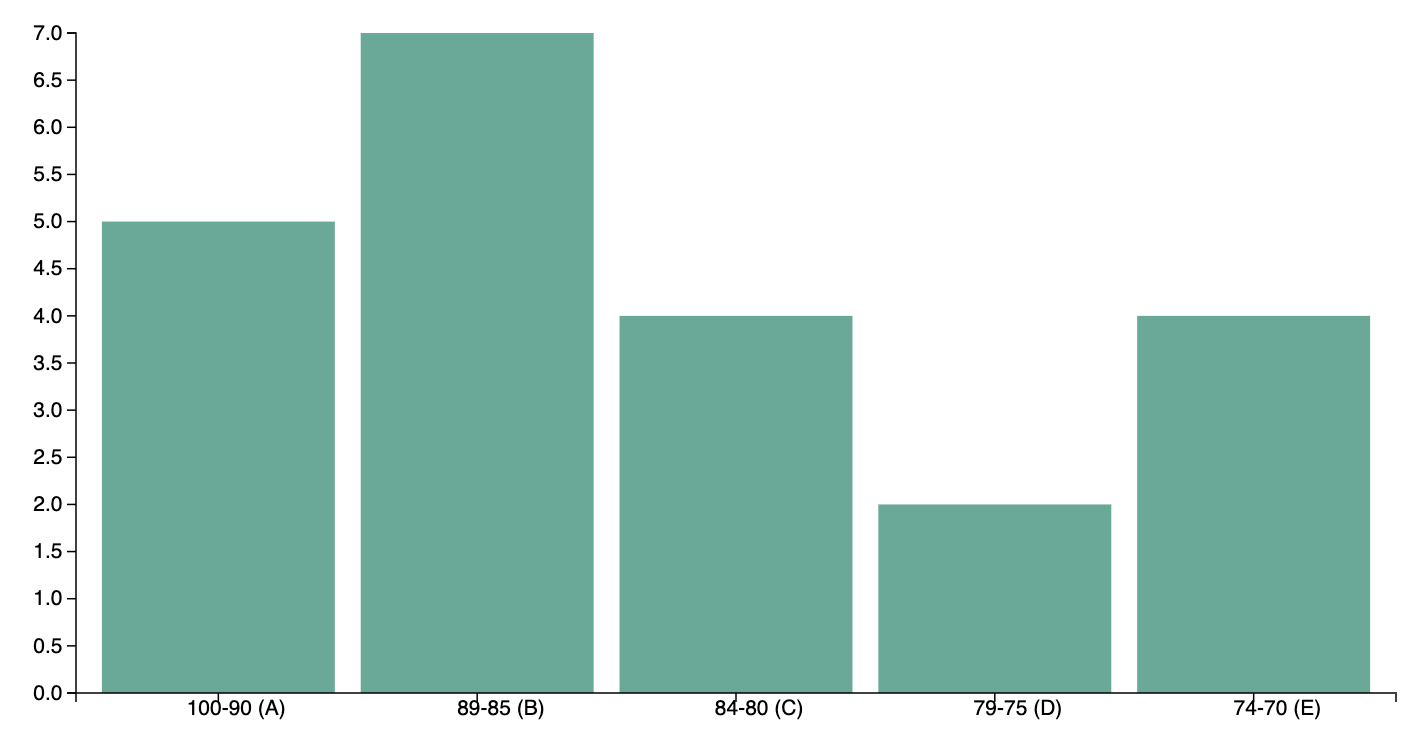
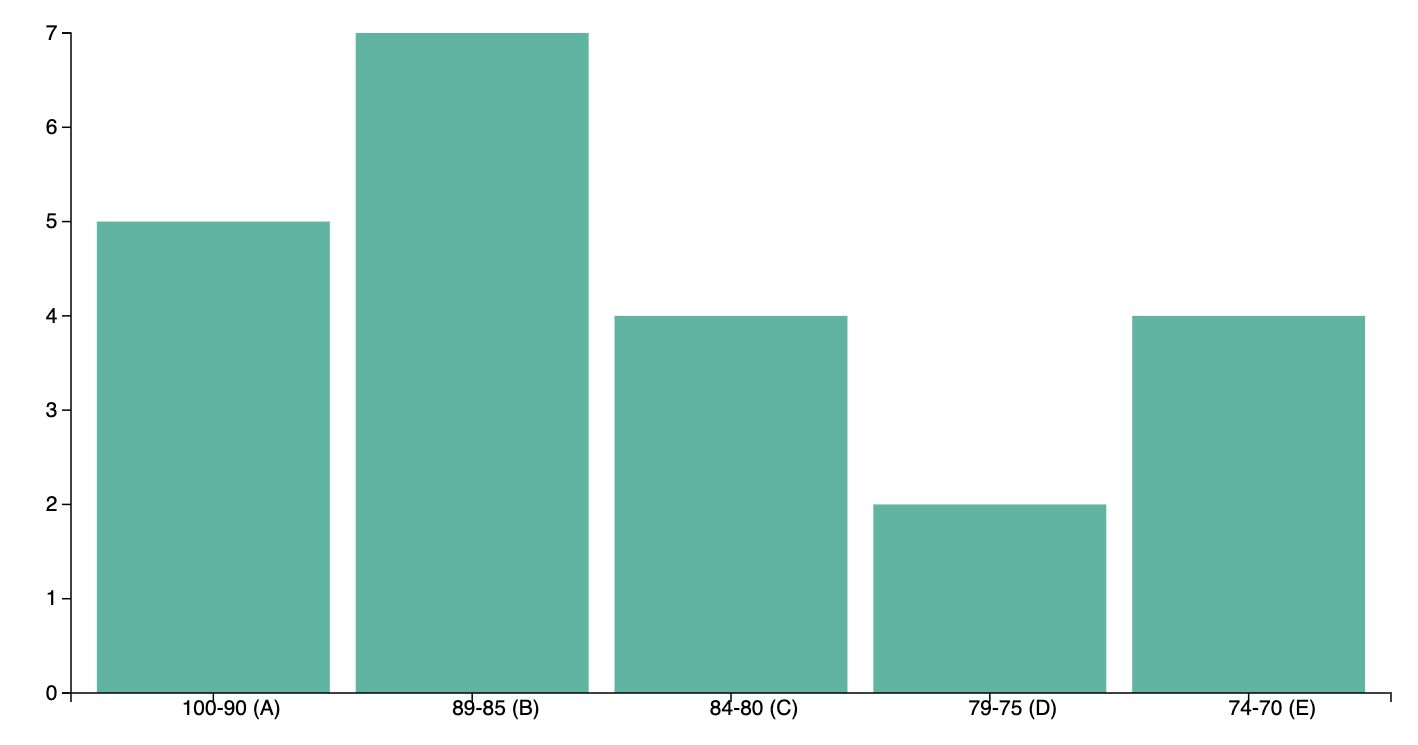
changed minor things for charts

Changed region(s): [[0.0, 0.0309, 0.9929, 0.957], [0.6206, 0.6483, 0.7757, 0.6792]]

diff --git a/dist/bundle.js b/dist/bundle.js
@@ -16,7 +16,7 @@
   \*************************/
 /***/ (function(__unused_webpack_module, exports, __webpack_require__) {
 
-eval("\nvar __createBinding = (this && this.__createBinding) || (Object.create ? (function(o, m, k, k2) {\n    if (k2 === undefined) k2 = k;\n    var desc = Object.getOwnPropertyDescriptor(m, k);\n    if (!desc || (\"get\" in desc ? !m.__esModule : desc.writable || desc.configurable)) {\n      desc = { enumerable: true, get: function() { return m[k]; } };\n    }\n    Object.defineProperty(o, k2, desc);\n}) : (function(o, m, k, k2) {\n    if (k2 === undefined) k2 = k;\n    o[k2] = m[k];\n}));\nvar __setModuleDefault = (this && this.__setModuleDefault) || (Object.create ? (function(o, v) {\n    Object.defineProperty(o, \"default\", { enumerable: true, value: v });\n}) : function(o, v) {\n    o[\"default\"] = v;\n});\nvar __importStar = (this && this.__importStar) || function (mod) {\n    if (mod && mod.__esModule) return mod;\n    var result = {};\n    if (mod != null) for (var k in mod) if (k !== \"default\" && Object.prototype.hasOwnProperty.call(mod, k)) __createBinding(result, mod, k);\n    __setModuleDefault(result, mod);\n    return result;\n};\nvar __importDefault = (this && this.__importDefault) || function (mod) {\n    return (mod && mod.__esModule) ? mod : { \"default\": mod };\n};\nObject.defineProperty(exports, \"__esModule\", ({ value: true }));\nconst d3 = __importStar(__webpack_require__(/*! d3 */ \"./node_modules/d3/src/index.js\"));\n// Import data\nconst phase2_json_1 = __importDefault(__webpack_require__(/*! ./phase2.json */ \"./heatmap/phase2.json\"));\nconst data = phase2_json_1.default.flatMap((d) => d.columns);\n// Set dimensions and margins\nconst margin = { top: 50, right: 50, bottom: 50, left: 100 };\nconst width = 1160 - margin.left - margin.right;\nconst height = 700 - margin.top - margin.bottom;\n// Create SVG canvas\nconst svg = d3.select('body')\n    .append('svg')\n    .attr('width', width + margin.left + margin.right)\n    .attr('height', height + margin.top + margin.bottom)\n    .append('g')\n    .attr('transform', `translate(${margin.left},${margin.top})`);\n// Define data domains\nconst rows = Array.from(new Set(data.map(d => d.grid))).sort();\nconst columns = Array.from(new Set(data.map(d => d.column.toString())));\n// Create scales\nconst xScale = d3.scaleBand()\n    .domain(columns)\n    .range([0, width])\n    .padding(0);\nconst yScale = d3.scaleBand()\n    .domain(rows)\n    .range([0, height])\n    .padding(0);\n// Create custom color scale\nconst colorScale = d3.scaleSequential()\n    .domain([-24, 60])\n    .interpolator(d3.interpolateRgbBasis(['#33ccff', 'white', 'red']));\n// Draw heatmap\nsvg.selectAll()\n    .data(data)\n    .enter()\n    .append('rect')\n    .attr('x', d => xScale(d.column.toString()))\n    .attr('y', d => yScale(d.grid))\n    .attr('width', xScale.bandwidth())\n    .attr('height', yScale.bandwidth())\n    .style('fill', d => colorScale(d.zoneTemperature))\n    .style('stroke', 'black');\n// Add X Axis\nconst xAxis = d3.axisTop(xScale).tickSize(0).tickPadding(6);\nsvg.append('g')\n    .attr('class', 'x axis')\n    .call(xAxis)\n    .selectAll('text')\n    .style('text-anchor', 'middle');\n// Add Y Axis\nconst yAxis = d3.axisLeft(yScale).tickSize(0).tickPadding(6);\nsvg.append('g')\n    .attr('class', 'y axis')\n    .call(yAxis)\n    .selectAll('text')\n    .style('text-anchor', 'end');\n// Create a group for the legend\nconst legendWidth = 20;\nconst legendHeight = height;\nconst legend = svg.append('g')\n    .attr('class', 'legend')\n    .attr('transform', `translate(-${margin.left / 2}, 0)`);\n// Create gradient for legend\nconst defs = svg.append('defs');\nconst linearGradient = defs.append('linearGradient')\n    .attr('id', 'linear-gradient');\nlinearGradient\n    .attr('x1', '0%')\n    .attr('y1', '100%')\n    .attr('x2', '0%')\n    .attr('y2', '0%');\n// Define the gradient stops\nlinearGradient.selectAll('stop')\n    .data([\n    { offset: '0%', color: '#33ccff' },\n    { offset: '30%', color: 'white' },\n    { offset: '100%', color: 'red' }\n])\n    .enter()\n    .append('stop')\n    .attr('offset', d => d.offset)\n    .attr('stop-color', d => d.color);\n// Draw legend rectangle filled with gradient\nlegend.append('rect')\n    .attr('width', legendWidth)\n    .attr('height', legendHeight)\n    .style('fill', 'url(#linear-gradient)');\n// Add legend axis\nconst legendScale = d3.scaleLinear()\n    .domain([60, -24])\n    .range([0, legendHeight]);\nconst legendAxis = d3.axisLeft(legendScale)\n    .tickValues(d3.range(60, -25, -6))\n    .tickFormat(d => `${d}°C`);\nlegend.append('g')\n    .attr('class', 'legend-axis')\n    .attr('transform', `translate(${legendWidth - 15}, 0)`)\n    .call(legendAxis);\n\n\n//# sourceURL=webpack://analogyvis/./heatmap/main.ts?");
+eval("\nvar __createBinding = (this && this.__createBinding) || (Object.create ? (function(o, m, k, k2) {\n    if (k2 === undefined) k2 = k;\n    var desc = Object.getOwnPropertyDescriptor(m, k);\n    if (!desc || (\"get\" in desc ? !m.__esModule : desc.writable || desc.configurable)) {\n      desc = { enumerable: true, get: function() { return m[k]; } };\n    }\n    Object.defineProperty(o, k2, desc);\n}) : (function(o, m, k, k2) {\n    if (k2 === undefined) k2 = k;\n    o[k2] = m[k];\n}));\nvar __setModuleDefault = (this && this.__setModuleDefault) || (Object.create ? (function(o, v) {\n    Object.defineProperty(o, \"default\", { enumerable: true, value: v });\n}) : function(o, v) {\n    o[\"default\"] = v;\n});\nvar __importStar = (this && this.__importStar) || function (mod) {\n    if (mod && mod.__esModule) return mod;\n    var result = {};\n    if (mod != null) for (var k in mod) if (k !== \"default\" && Object.prototype.hasOwnProperty.call(mod, k)) __createBinding(result, mod, k);\n    __setModuleDefault(result, mod);\n    return result;\n};\nvar __importDefault = (this && this.__importDefault) || function (mod) {\n    return (mod && mod.__esModule) ? mod : { \"default\": mod };\n};\nObject.defineProperty(exports, \"__esModule\", ({ value: true }));\nconst d3 = __importStar(__webpack_require__(/*! d3 */ \"./node_modules/d3/src/index.js\"));\n// Import data\nconst phase2_json_1 = __importDefault(__webpack_require__(/*! ./phase2.json */ \"./heatmap/phase2.json\"));\nconst data = phase2_json_1.default.flatMap((d) => d.columns);\n// Set dimensions and margins\nconst margin = { top: 50, right: 50, bottom: 50, left: 100 };\nconst width = 1160 - margin.left - margin.right;\nconst height = 700 - margin.top - margin.bottom;\n// Create SVG canvas\nconst svg = d3.select('body')\n    .append('svg')\n    .attr('width', width + margin.left + margin.right)\n    .attr('height', height + margin.top + margin.bottom)\n    .append('g')\n    .attr('transform', `translate(${margin.left},${margin.top})`);\n// Define data domains\nconst rows = Array.from(new Set(data.map(d => d.grid))).sort();\nconst columns = Array.from(new Set(data.map(d => d.column.toString())));\n// Create scales\nconst xScale = d3.scaleBand()\n    .domain(columns)\n    .range([0, width])\n    .padding(0);\nconst yScale = d3.scaleBand()\n    .domain(rows)\n    .range([0, height])\n    .padding(0);\n// Create custom color scale\nconst colorScale = d3.scaleSequential()\n    .domain([-24, 60])\n    .interpolator(d3.interpolateRgbBasis(['#33ccff', 'white', 'red']));\n// Draw heatmap\nsvg.selectAll()\n    .data(data)\n    .enter()\n    .append('rect')\n    .attr('x', d => xScale(d.column.toString()))\n    .attr('y', d => yScale(d.grid))\n    .attr('width', xScale.bandwidth())\n    .attr('height', yScale.bandwidth())\n    .style('fill', d => colorScale(d.zoneTemperature))\n    .style('stroke', 'black');\n// Add X Axis\nconst xAxis = d3.axisTop(xScale).tickSize(0).tickPadding(6);\nsvg.append('g')\n    .attr('class', 'x axis')\n    .call(xAxis)\n    .selectAll('text')\n    .style('text-anchor', 'middle');\n// Add Y Axis\nconst yAxis = d3.axisLeft(yScale).tickSize(0).tickPadding(6);\nsvg.append('g')\n    .attr('class', 'y axis')\n    .call(yAxis)\n    .selectAll('text')\n    .style('text-anchor', 'end');\n// Create a group for the legend\nconst legendWidth = 20;\nconst legendHeight = height;\nconst legend = svg.append('g')\n    .attr('class', 'legend')\n    .attr('transform', `translate(-${margin.left / 2}, 0)`);\n// Create gradient for legend\nconst defs = svg.append('defs');\nconst linearGradient = defs.append('linearGradient')\n    .attr('id', 'linear-gradient');\nlinearGradient\n    .attr('x1', '0%')\n    .attr('y1', '100%')\n    .attr('x2', '0%')\n    .attr('y2', '0%');\n// Define the gradient stops\nlinearGradient.selectAll('stop')\n    .data([\n    { offset: '0%', color: '#33ccff' },\n    { offset: '30%', color: 'white' },\n    { offset: '100%', color: 'red' }\n])\n    .enter()\n    .append('stop')\n    .attr('offset', d => d.offset)\n    .attr('stop-color', d => d.color);\n// Draw legend rectangle filled with gradient\nlegend.append('rect')\n    .attr('width', legendWidth)\n    .attr('height', legendHeight)\n    .style('fill', 'url(#linear-gradient)');\n// Add legend axis\nconst legendScale = d3.scaleLinear()\n    .domain([60, -24])\n    .range([0, legendHeight]);\nconst legendAxis = d3.axisLeft(legendScale)\n    .tickValues(d3.range(60, -25, -6))\n    .tickFormat(d => `${d}°C`);\nlegend.append('g')\n    .attr('class', 'legend-axis')\n    .attr('transform', `translate(${legendWidth - 15}, 0)`)\n    .call(legendAxis);\n// Draw heatmap rectangles\nsvg.selectAll('.cell')\n    .data(data)\n    .enter()\n    .append('rect')\n    .attr('class', 'cell')\n    .attr('x', d => xScale(d.column.toString()))\n    .attr('y', d => yScale(d.grid))\n    .attr('width', xScale.bandwidth())\n    .attr('height', yScale.bandwidth())\n    .style('fill', d => colorScale(d.zoneTemperature))\n    .style('stroke', 'black');\n// Add text labels for itemCategory\nsvg.selectAll('.label')\n    .data(data)\n    .enter()\n    .append('text')\n    .attr('x', d => xScale(d.column.toString()) + xScale.bandwidth() / 2)\n    .attr('y', d => yScale(d.grid) + yScale.bandwidth() / 2)\n    .attr('dy', '.35em') // vertical alignment\n    .text(d => d.itemsCategory)\n    .attr('text-anchor', 'middle')\n    .style('fill', 'black') // Text color, adjust based on readability\n    .style('font-size', '15px'); // Font size, adjust for better fit\n\n\n//# sourceURL=webpack://analogyvis/./heatmap/main.ts?");
 
 /***/ }),
 

diff --git a/heatmap/main.ts b/heatmap/main.ts
@@ -132,3 +132,29 @@ legend.append('g')
   .attr('class', 'legend-axis')
   .attr('transform', `translate(${legendWidth-15}, 0)`)
   .call(legendAxis);
+
+// Draw heatmap rectangles
+svg.selectAll('.cell')
+  .data(data)
+  .enter()
+  .append('rect')
+  .attr('class', 'cell')
+  .attr('x', d => xScale(d.column.toString()) as number)
+  .attr('y', d => yScale(d.grid) as number)
+  .attr('width', xScale.bandwidth())
+  .attr('height', yScale.bandwidth())
+  .style('fill', d => colorScale(d.zoneTemperature))
+  .style('stroke', 'black');
+
+// Add text labels for itemCategory
+svg.selectAll('.label')
+  .data(data)
+  .enter()
+  .append('text')
+  .attr('x', d => (xScale(d.column.toString()) as number) + xScale.bandwidth() / 2)
+  .attr('y', d => (yScale(d.grid) as number) + yScale.bandwidth() / 2)
+  .attr('dy', '.35em') // vertical alignment
+  .text(d => d.itemsCategory)
+  .attr('text-anchor', 'middle')
+  .style('fill', 'black') // Text color, adjust based on readability
+  .style('font-size', '15px'); // Font size, adjust for better fit

diff --git a/scatter/main.ts b/scatter/main.ts
@@ -21,7 +21,7 @@ const x = d3.scaleLinear()
   .range([margin.left, width - margin.right]);
 
 const y = d3.scaleLinear()
-  .domain(d3.extent(data, d => d.dec) as [number, number])
+  .domain([0, d3.max(data, d => d.dec) as number])
   .range([height - margin.bottom, margin.top]);
 
 // Define a scale for circle sizes based on brightness
@@ -31,7 +31,7 @@ const size = d3.scaleLinear()
 
 // Create axes
 const xAxis = d3.axisBottom(x);
-const yAxis = d3.axisLeft(y);
+const yAxis = d3.axisLeft(y).ticks(15); // Set the number of ticks; adjust based on your desired range and step
 
 // Add X axis
 svg.append('g')

diff --git a/histogram/main.ts b/histogram/main.ts
@@ -34,9 +34,13 @@ svg.append('g')
   .attr('height', (d) => height - y(d['Frequency']))
   .attr('fill', '#69b3a2');
 
-// Add y-axis with linear scale
+// Add y-axis with integer ticks
 svg.append('g')
-  .call(d3.axisLeft(y))
+  .call(
+    d3.axisLeft(y)
+      .ticks(d3.max(data, (d) => d['Frequency'])) // Set the number of ticks to the maximum frequency value
+      .tickFormat(d3.format('d')) // Format ticks to be integer
+  )
   .selectAll('text')
   .style('font-size', '14px');
 
